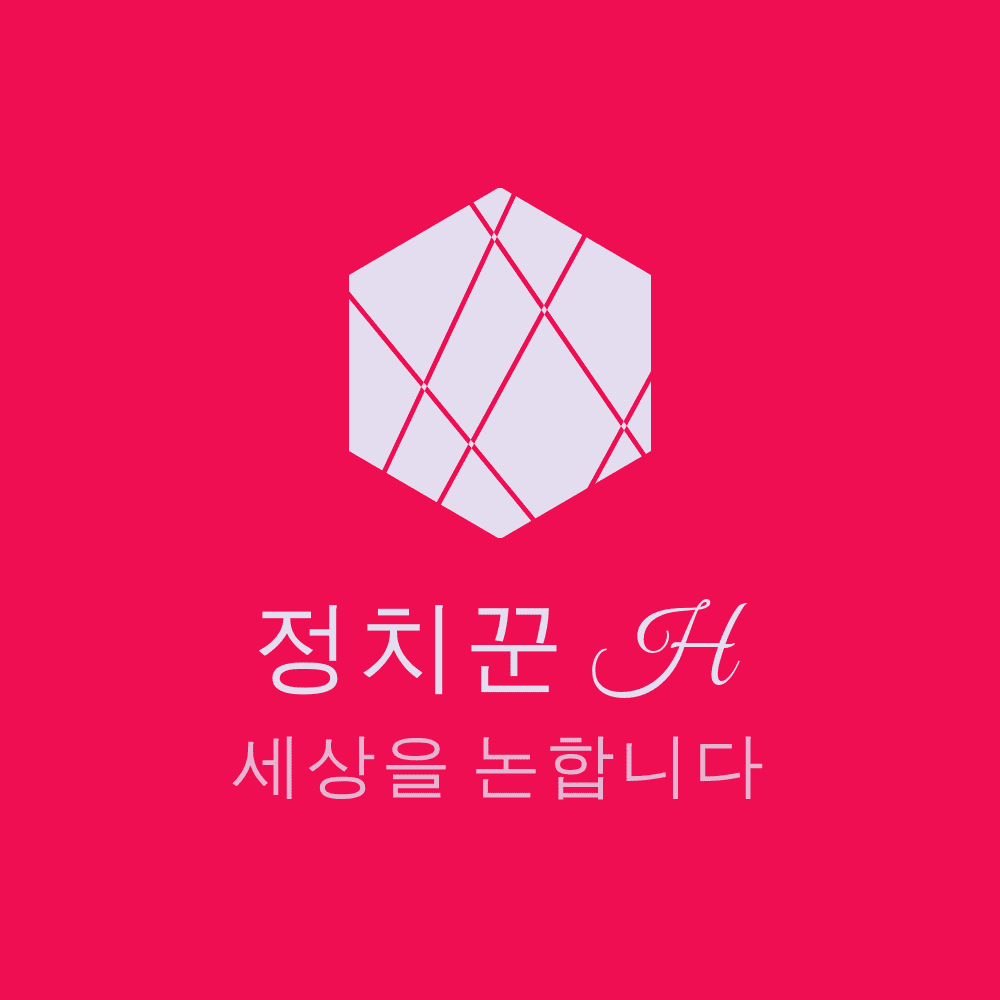
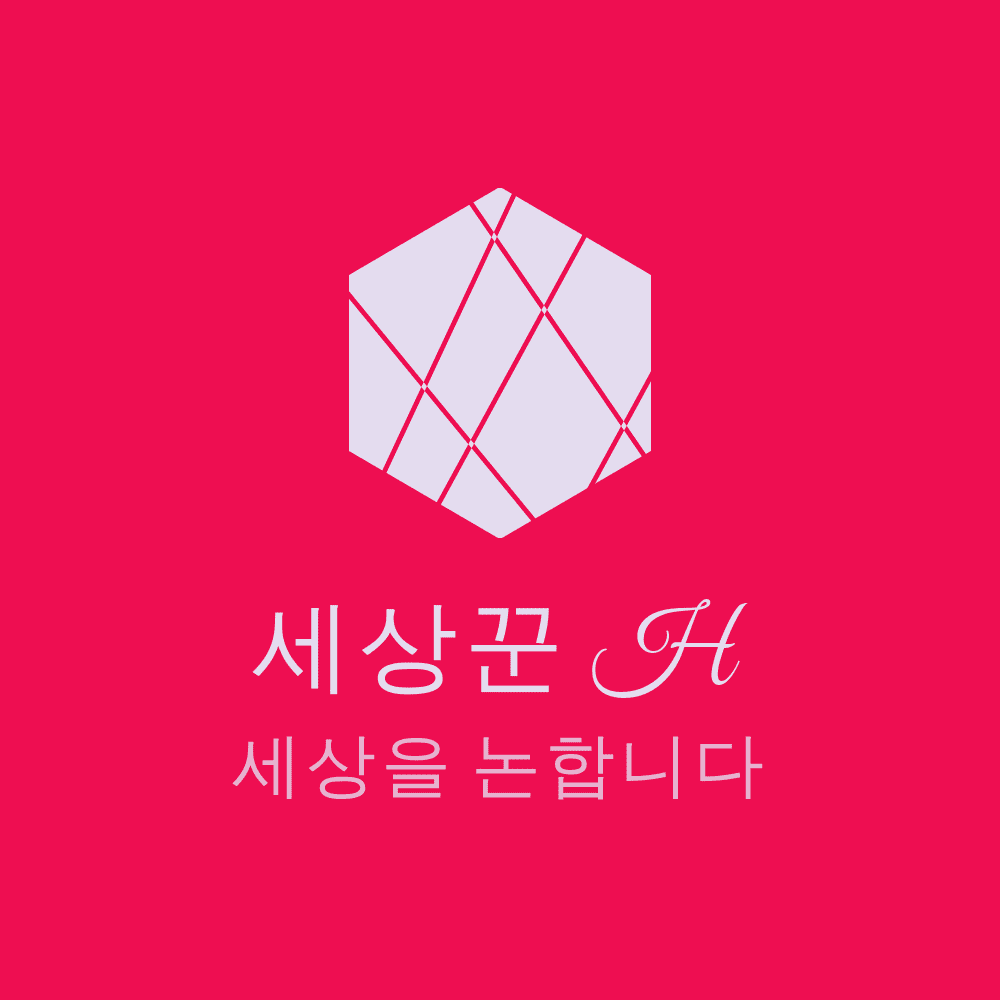
feat: 브랜드 변경

Changed region(s): [[0.248, 0.589, 0.341, 0.713], [0.372, 0.589, 0.465, 0.713]]

diff --git a/docusaurus.config.ts b/docusaurus.config.ts
@@ -5,7 +5,7 @@ import type * as Preset from '@docusaurus/preset-classic'
 // This runs in Node.js - Don't use client-side code here (browser APIs, JSX...)
 
 const config: Config = {
-  title: '정치꾼 H',
+  title: '세상꾼 H',
   tagline: '',
   favicon: 'img/favicon.png',
 
@@ -60,7 +60,7 @@ const config: Config = {
     // Replace with your project's social card
     image: 'img/docusaurus-social-card.jpg',
     navbar: {
-      title: '정치꾼 H',
+      title: '세상꾼 H',
       logo: {
         alt: 'Jungle In Bush Logo',
         src: 'img/logo.png',
